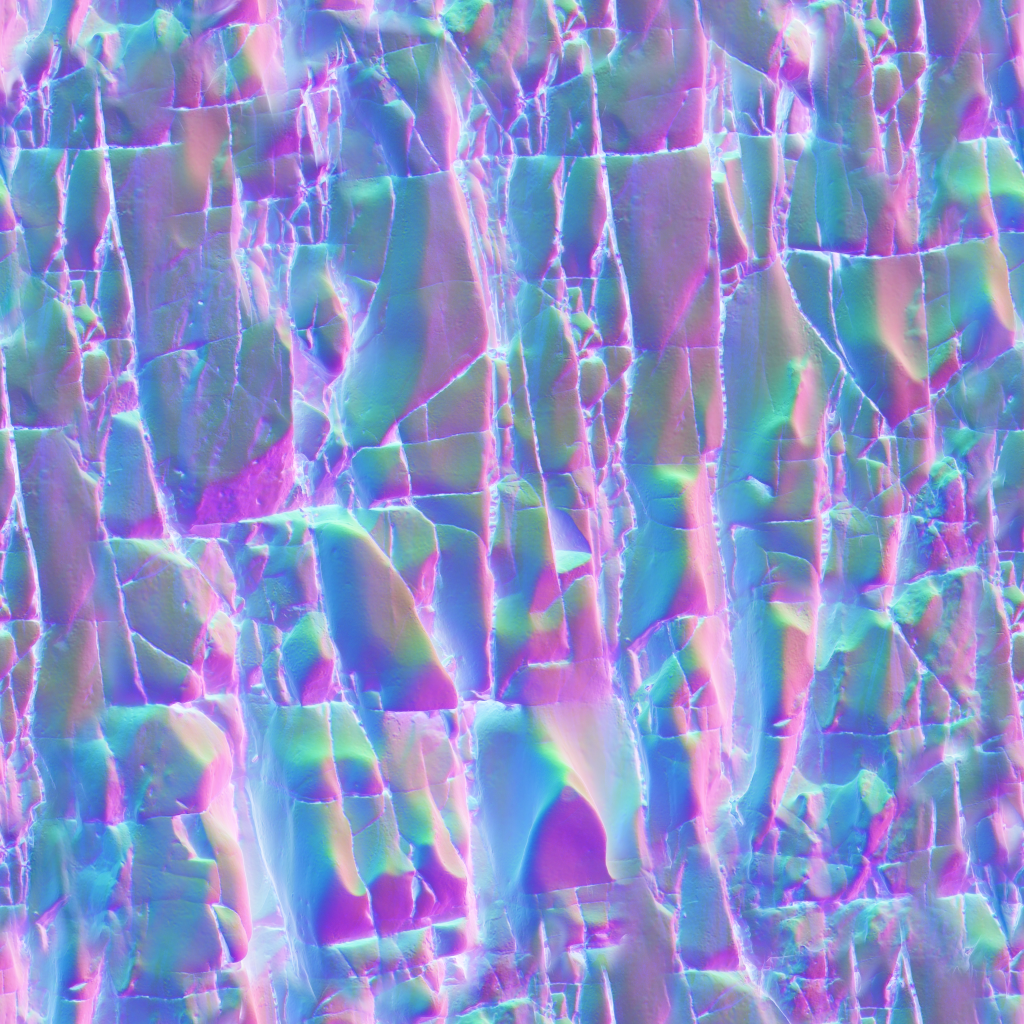
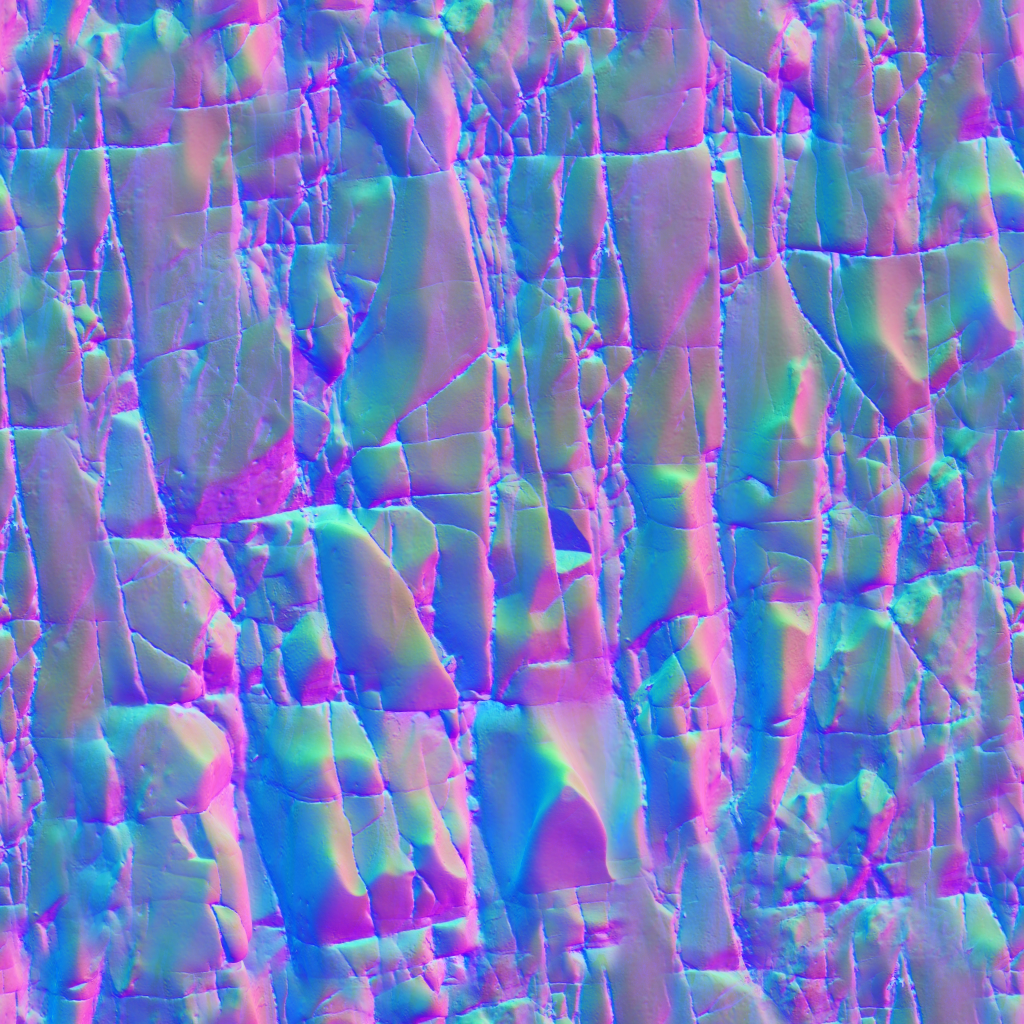
Preserve PBR data and align snow shelf collision support

diff --git a/src/sim/physics.js b/src/sim/physics.js
@@ -28,11 +28,13 @@ export class PhysicsScene {
     if (!this.g.free) emit(type, data);
   }
   groundHeight(x,z) {
-    return Math.max(this.g.field.height(x,z),this.g.world?.routeFeatures?.sample(x,z)?.height??-Infinity)+(!this.g.world?.crevasseField?.at(x,z) && this.avalanche?.settled ? this.avalanche.sample(x,z).depth : 0);
+    const base=this.g.field.height(x,z)+(!this.g.world?.crevasseField?.at(x,z) && this.avalanche?.settled ? this.avalanche.sample(x,z).depth : 0);
+    return Math.max(base,this.g.world?.routeFeatures?.sample(x,z)?.height??-Infinity);
   }
   contactHeight(x,z,y=this.g.P.y+1) {
     if(this.g.world?.crevasseField?.at(x,z))return querySupport(this.g,{x,y,z},100)?.height ?? -Infinity;
-    return Math.max(triangleHeight(this.g.field,x,z),this.g.world?.routeFeatures?.sample(x,z)?.height??-Infinity)+(this.avalanche?.settled ? this.avalanche.sample(x,z).depth : 0);
+    const base=triangleHeight(this.g.field,x,z)+(this.avalanche?.settled ? this.avalanche.sample(x,z).depth : 0);
+    return Math.max(base,this.g.world?.routeFeatures?.sample(x,z)?.height??-Infinity);
   }
   disposeBody() {
     this.world?.free(); this.queue?.free(); this.world=null; this.queue=null;
@@ -163,7 +165,6 @@ export class PhysicsScene {
       const colliders=[];
       for(const r of this.g.world?.routeFeatures?.records||[])if(r.x>=x0&&r.x<x0+size&&r.z>=z0&&r.z<z0+size){
         const vertices=Float32Array.from(r.position,(value,k)=>value-[this.origin.x,this.origin.y,this.origin.z][k%3]);
-        if(deposit)for(let k=0;k<vertices.length;k+=3)vertices[k+1]+=deposit.sample(r.position[k],r.position[k+2]).depth;
         colliders.push(this.world.createCollider(RAPIER.ColliderDesc.trimesh(vertices,r.index).setFriction(FALL.friction.snow).setRestitution(FALL.restitution).setCollisionGroups(0x00020001)));
       }
       const holes=this.g.world?.crevasseField,candidates=holes?.nearby({x0,x1:x0+size,z0,z1:z0+size})||[];

diff --git a/src/render/terrainAssets.js b/src/render/terrainAssets.js
@@ -2,11 +2,11 @@
 // terrain arrays. No new samplers or remote requests are required at runtime.
 let rock;
 export function loadTerrainRock() {
-  rock ??= Promise.all(['albedo.jpg', 'surface.png'].map(async name => {
+  rock ??= Promise.all(['albedo.jpg', 'surface.png', 'ao.png'].map(async name => {
     const response = await fetch(`assets/materials/marble-cliff/${name}`);
     if (!response.ok) throw new Error(`Rock material: ${response.status}`);
     return createImageBitmap(await response.blob(), {colorSpaceConversion: 'none', premultiplyAlpha: 'none'});
-  })).then(([albedo, surface]) => ({albedo, surface})).catch(error => {
+  })).then(([albedo, surface, ao]) => ({albedo, surface, ao})).catch(error => {
     console.warn('Using procedural rock fallback:', error.message); return null;
   });
   return rock;
@@ -20,12 +20,13 @@ export function applyPhotographedRock(S, albedo, surface, rock) {
     ctx.clearRect(0, 0, S, S); ctx.drawImage(image, 0, 0, S, S);
     return ctx.getImageData(0, 0, S, S).data;
   };
-  const color = read(rock.albedo), data = read(rock.surface);
+  // Keep data images opaque: canvas premultiplication must not weight normals by AO.
+  const color = read(rock.albedo), data = read(rock.surface), occlusion=read(rock.ao);
   // Reverse image rows to retain the source OpenGL tangent basis (v points up).
   for (let y = 0; y < S; y++) for (let x = 0; x < S; x++) {
     const dst = (y * S + x) * 4, src = ((S - 1 - y) * S + x) * 4;
     for (let k = 0; k < 3; k++) albedo[dst + k] = color[src + k] * 0.62;
     surface[dst] = data[src]; surface[dst + 1] = data[src + 1];
-    surface[dst + 2] = data[src + 2]; surface[dst + 3] = data[src + 3];
+    surface[dst + 2] = data[src + 2]; surface[dst + 3] = occlusion[src];
   }
 }

diff --git a/tests/visual-fidelity.js b/tests/visual-fidelity.js
@@ -1,8 +1,12 @@
 return (async()=>{
   const s=__sim,g=s.game,assert=(v,m)=>{if(!v)throw Error(m);};
-  const {loadTerrainRock}=await import('/src/render/terrainAssets.js');
+  const {loadTerrainRock,applyPhotographedRock}=await import('/src/render/terrainAssets.js');
   const {groundHeight}=await import('/src/sim/surface.js');
-  const rock=await loadTerrainRock();assert(rock?.albedo.width===1024&&rock?.surface.width===1024,'Bundled PBR maps failed to decode');
+  const rock=await loadTerrainRock();assert(rock?.albedo.width===1024&&rock?.surface.width===1024&&rock?.ao.width===1024,'Bundled PBR maps failed to decode');
+  const bitmap=bytes=>createImageBitmap(new ImageData(new Uint8ClampedArray(bytes),1,1),{colorSpaceConversion:'none',premultiplyAlpha:'none'});
+  const neutral=await bitmap([128,128,200,255]),black=await bitmap([0,0,0,255]),color=new Uint8Array(4),surface=new Uint8Array(4);
+  applyPhotographedRock(1,color,surface,{albedo:neutral,surface:neutral,ao:black});
+  assert(surface[0]===128&&surface[1]===128&&surface[2]===200&&surface[3]===0,'AO altered the normal/roughness data');neutral.close();black.close();
   const footprints=g.world.routeWear.meshes.reduce((sum,o)=>sum+o.count,0);let flags=0;s.scene.traverse(o=>{
     if(o.userData.rtDynamic&&o.customDepthMaterial){flags++;assert(o.castShadow,'Flag lost contact shadows');}
   });

diff --git a/docs/visual-fidelity.md b/docs/visual-fidelity.md
@@ -31,6 +31,9 @@ The rock layer uses Poly Haven's CC0 Marble Cliff 01 photograph, normal,
 roughness and AO maps, packed into the existing texture arrays. There are no new
 terrain samplers or runtime CDN requests. See
 [material attribution and packing](../assets/materials/README.md). This material
+keeps AO in a separate opaque source image until runtime packing, so canvas
+resizing cannot premultiply and corrupt the normal or roughness channels.
+The photograph
 describes fractures and ledges; it does not claim to reproduce Everest's geology.
 Altitude strata and the Yellow Band tint remain authored. Snow accumulation also
 accounts for lee versus windward slope exposure.
@@ -50,7 +53,9 @@ and broken crests. The same arrays drive display, triangle support, streamed
 Rapier colliders and the nearby static RT snapshot. They do not alter the DEM or
 global landscape cache. Teleport, recovery, walking and skiing query the raised
 surface. These shelves are local approximations, not surveyed cornices or
-overhanging avalanche hazards.
+overhanging avalanche hazards. Settled avalanche snow and static shelves combine
+by taking the higher displayed surface. Shelf colliders stay at their displayed
+height rather than adding avalanche depth a second time.
 
 The previous continuous boot ribbon is replaced with alternating compressed
 footprints, tread marks and broken crust, instanced in spatial batches. Fixed
@@ -112,12 +117,21 @@ The production RT dynamic-shadow function also detects the boot (visibility
 0.777778 versus 1.0 without the caster). Supported boot soles are within 3 cm of
 the shelf surface.
 
+All 15 existing browser regression flows passed, covering terrain, graphics,
+postprocessing, hazards, crevasses, camps, UI, free viewing, memorials, extras,
+physics and the Everest, Lhotse and Nuptse expeditions. The new visual fidelity
+flow also passed separately and is included in `npm run test:e2e`. Shelf support
+tests cover avalanche deposits both below and above the shelf crest.
+
 `npm run capture:visual` records summit, ridge, rock-face and camp views at noon,
 clear weather, Medium, exposure 0.72 and a fixed camera pose. `RT=1` adds traced
 views after actual cache coverage reaches 0.9 at the camera; running frames alone
 do not count as coverage. JSON records camera, exposure, quality, renderer, RT
 state, cache coverage, frame intervals and CPU submission time beside the images.
-There are 60 samples per view (12 with traced lighting on a software renderer).
+There are 60 samples per view, or 12 on a software renderer. The capture fixture
+warms the camera's atlas tiles with eight passes of the production native-ray
+cache updater, using distinct sampling frames, before checking actual coverage.
+It does not establish convergence across the whole landscape atlas.
 
 ```sh
 VIEW=summit,rock RT=1 SHOTS=tests/out/fidelity-after npm run capture:visual

diff --git a/assets/materials/README.md b/assets/materials/README.md
@@ -18,7 +18,10 @@ https://api.polyhaven.com/files/marble_cliff_01 and checked against its MD5 hash
 | AO | `08bc5e308c4843547ca7befe38cd7949` |
 
 `marble-cliff/albedo.jpg` is the diffuse map recompressed at quality 90.
-`marble-cliff/surface.png` packs normal X/Y into R/G, roughness into B and AO into A.
+`marble-cliff/surface.png` packs normal X/Y into R/G and roughness into B.
+`marble-cliff/ao.png` holds AO separately. Both data images are opaque to prevent
+canvas alpha premultiplication from altering the normal channels during resize.
+Runtime preparation packs AO into the texture array's alpha channel.
 Runtime array preparation reverses image rows to preserve the OpenGL UV basis,
 resizes to the graphics preset, and darkens the albedo to 62% for the rock layer.
 The source is a photographed material, not a survey of Everest's rock. The Yellow
